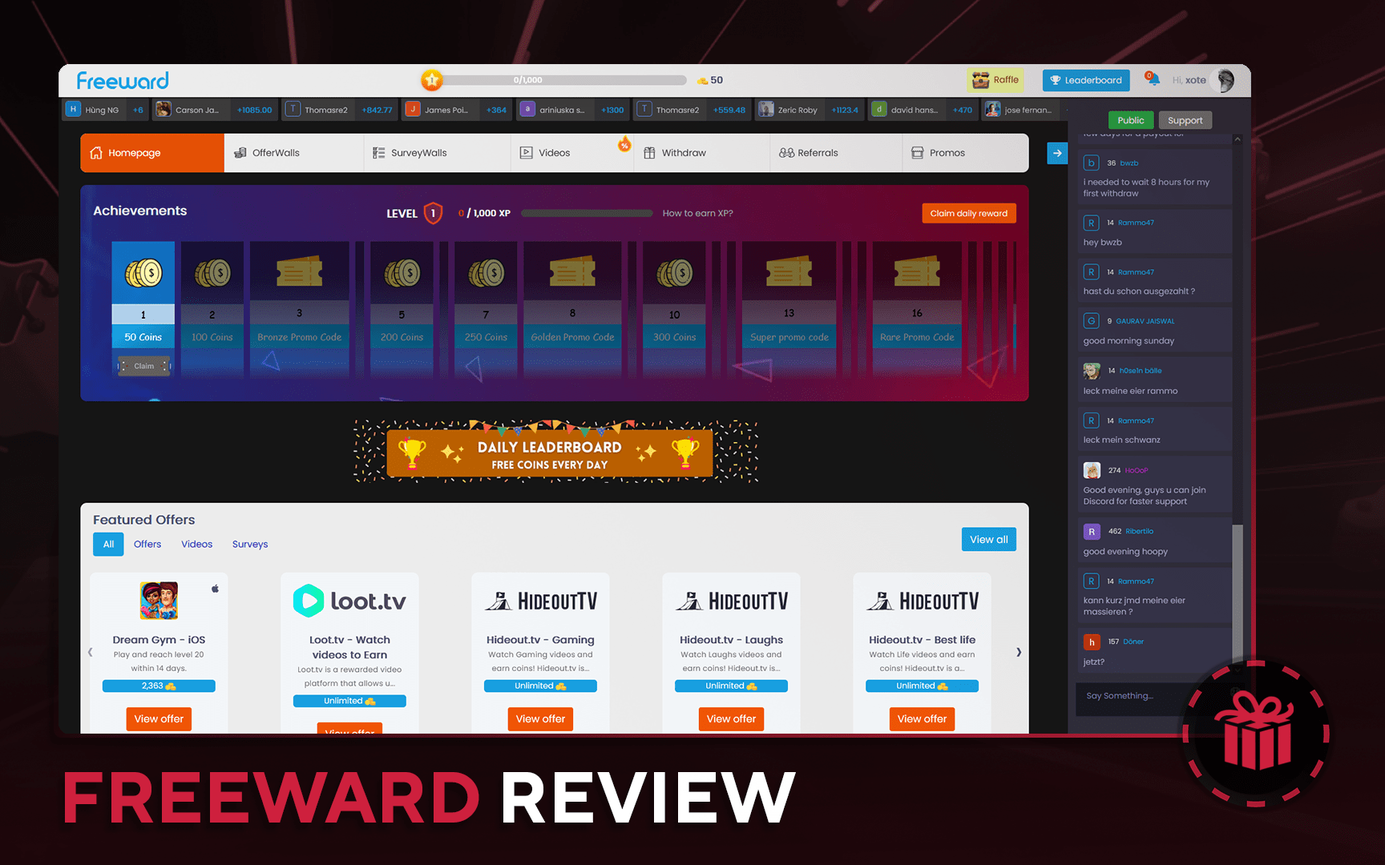
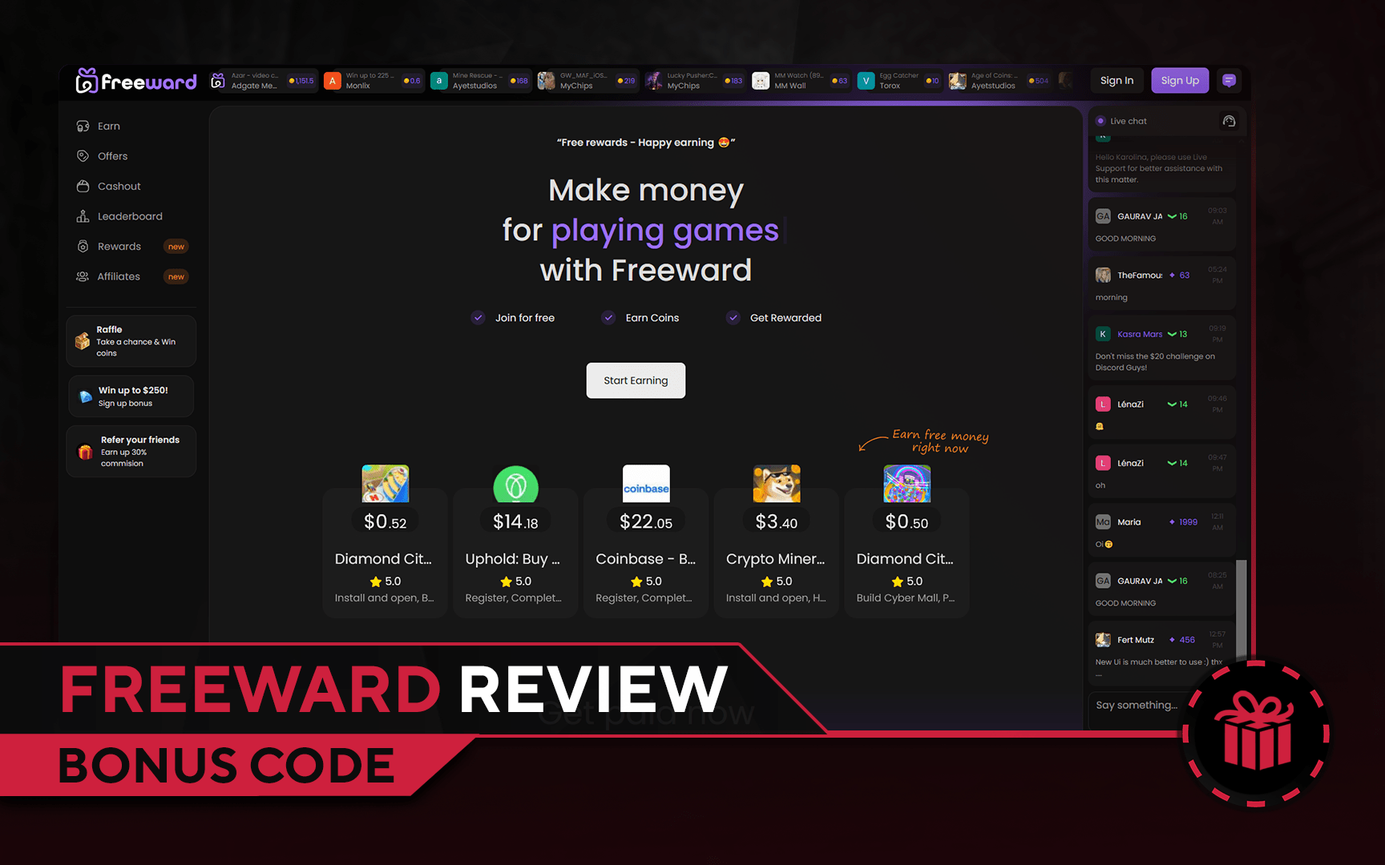
freeward upd

diff --git a/ru/reviews/freeward.html b/ru/reviews/freeward.html
@@ -103,7 +103,7 @@
     <div class="siteblock">
         <div class="box main">
             <div class="logobg">
-                <a href="https://freeward.net?ref=v2vod"><img src="/img/freeward-logo.png" alt="Freeward logo" draggable="false" loading="lazy"></a>
+                <a href="https://freeward.net/ref/v2vod"><img src="/img/freeward-logo.webp" alt="Freeward logo" draggable="false" loading="lazy"></a>
                 <div class="rating">
                     <div class="star_rating"><i class="bi bi-star-fill"></i></div>
                     <div class="star_rating"><i class="bi bi-star-fill"></i></div>
@@ -114,7 +114,7 @@
             </div>
             <div class="content">
                 <p>Freeward</p>
-                <a aria-label="Visit WebSite" class="copy_style" target="_blank" href='https://freeward.net?ref=v2vod'>Посетить Сайт</a>
+                <a aria-label="Visit WebSite" class="copy_style" target="_blank" href='https://freeward.net/ref/v2vod'>Посетить Сайт</a>
                 <div class="bonus-space" id="first"></div>
                 <div class="bonus_info"><span id="bonus">Получите <strong>0.10$</strong> Бесплатно</span></div>
                 <div class="bonus-space"></div>
@@ -148,7 +148,6 @@
                 <div class="criteria">
                     <p>Минусы</p>
                       <ul class="par">
-                        <li>Устаревший Дизайн</li>
                         <li>Иногда вывод может занимать много времени</li>
                     </ul>
                     <i class="bi bi-caret-down-fill"></i>
@@ -156,18 +155,18 @@
             </div>
             <div class="smallreview" id="Review_1">
                 <h2>Обзор на Freeward</h2>
-                <p>Freeward – это сайт GPT (Get-Paid-To), который предоставляет различные возможности для заработка наград за выполнение заданий, таких как опросы, просмотр видео и участие в ежедневных розыгрышах. В этой статье мы рассмотрим легитимность Freeward и рассмотрим особенности сайта, недостатки и общий пользовательский опыт.</p>
-                <p>Наше исследование показывает, что Freeward является легитимным сайтом, который платит пользователям за выполнение заданий и предлагает различные вознаграждения, включая наличные средства PayPal, Bitcoin, криптовалюты и подарочные карты. Сайт доступен по всему миру, а регистрация проста. Кроме того, период выплат относительно быстрый, менее двух часов по сравнению с другими сайтами GPT.</p>
-                <p>Несмотря на эти преимущества, отзывы свидетельствуют о некоторых недостатках у Freeward, таких как ограниченное количество возможностей для заработка и отсутствие прозрачности по поводу основателя. Тем не менее, уникальная система достижений на сайте поощряет пользователей выполнять больше заданий и зарабатывать дополнительные бесплатные монеты. На сайте также есть полезный блог и раздел FAQ, а пользователи могут обратиться за поддержкой через Discord или электронную почту для получения персонализированной помощи.</p>
-                <p>В целом, Freeward – это легитимный сайт GPT, который предоставляет различные возможности заработка и разнообразные варианты выплат. Хотя есть некоторые недостатки, отзывы свидетельствуют о том, что сайт стоит попробовать для тех, кто ищет дополнительный заработок онлайн. С простым процессом регистрации, быстрой выплатой и простым интерфейсом Freeward – это многообещающая платформа для тех, кто хочет зарабатывать награды за выполнение онлайн-заданий.</p>
+                <p>Freeward — это GPT (Get-Paid-To) платформа , которая предоставляет пользователям различные возможности для заработка, выполняя простые задания, такие как опросы, просмотр видео и участие в игровых заданиях. Платформа позволяет пользователям зарабатывать вознаграждения, которые можно вывести через PayPal, в криптовалюте или обменять на подарочные карты.</p>
+                <p>Одним из уникальных аспектов Freeward является система достижений, которая стимулирует пользователей выполнять больше заданий и продвигаться по уровням на сайте. По мере повышения уровня пользователи получают дополнительные бесплатные монеты, что мотивирует активное участие и повышает вовлеченность.</p>
+                <p>Сайт доступен по всему миру, и процесс регистрации на платформе очень прост и быстр. Интерфейс Freeward интуитивно понятен и удобен в использовании, что облегчает навигацию и выполнение заданий. Быстрая выплата заработанных средств является одним из ключевых преимуществ платформы, что делает её привлекательной для пользователей, ищущих дополнительные способы заработка онлайн.</p>
+                <p>В целом, Freeward представляет собой легитимный и надежный GPT-сайт, предлагающий разнообразные возможности для заработка и широкий выбор вариантов выплат. Простая регистрация, удобный интерфейс и система вознаграждений делают Freeward многообещающей платформой для тех, кто хочет заработать награды за выполнение онлайн-заданий.</p>
                 <div class="title-space"></div>
             </div>
                         <div class="instruction" id="Bonus_2">
                 <h3>Как получить Бонусы на сайте Freeward</h3>
                 <ol>
-                <li>Перейдите на <a target="_blank" href="https://freeward.net?ref=v2vod">Freeward</a> используя нашу ссылку</li>
+                <li>Перейдите на <a target="_blank" href="https://freeward.net/ref/v2vod">Freeward</a> используя нашу ссылку</li>
                 <li>Зарегистрируйтесь любым способом </li>
-                <li>Наслаждайтесь Бонусами !</li>
+                <li>Готово !</li>
                 </ol>
             </div>
             <div class="screentable" id="Site_3">
@@ -179,10 +178,11 @@
                     </div>
                 </div>
                 <div class="screens">
-                    <div class="slide bg1"><img draggable="false" loading="lazy" src="/img/screens/freeward_1.png" alt="Freeward ScreenShot 1"></div>
-                    <div class="slide bg2"><img draggable="false" loading="lazy" src="/img/screens/freeward_2.png" alt="Freeward ScreenShot 2"></div>
-                    <div class="slide bg3"><img draggable="false" loading="lazy" src="/img/screens/freeward_3.png" alt="Freeward ScreenShot 3"></div>
-                    <div class="slide bg4"><img draggable="false" loading="lazy" src="/img/screens/freeward_4.png" alt="Freeward ScreenShot 4"></div>
+                    <div class="slide bg1"><img draggable="false" loading="lazy" src="/img/screens/freeward_1.jpg" alt="Freeward Main Page ScreenShot"></div>
+                    <div class="slide bg2"><img draggable="false" loading="lazy" src="/img/screens/freeward_2.jpg" alt="Freeward Offerwalls list ScreenShot"></div>
+                    <div class="slide bg3"><img draggable="false" loading="lazy" src="/img/screens/freeward_3.jpg" alt="Freeward Level Up System ScreenShot"></div>
+                    <div class="slide bg4"><img draggable="false" loading="lazy" src="/img/screens/freeward_4.jpg" alt="Freeward Cashout list ScreenShot"></div>
+                    <div class="slide bg5"><img draggable="false" loading="lazy" src="/img/screens/freeward_5.jpg" alt="Freeward LeaderBoard ScreenShot"></div>
                 </div>
             </div>
             <div class="sitealternates">

diff --git a/tr/reviews/freeward.html b/tr/reviews/freeward.html
@@ -100,7 +100,7 @@
     <div class="siteblock">
         <div class="box main">
             <div class="logobg">
-                <a href="https://freeward.net?ref=v2vod"><img src="/img/freeward-logo.png" alt="Freeward logo" draggable="false" loading="lazy"></a>
+                <a href="https://freeward.net/ref/v2vod"><img src="/img/freeward-logo.webp" alt="Freeward logo" draggable="false" loading="lazy"></a>
                 <div class="rating">
                     <div class="star_rating"><i class="bi bi-star-fill"></i></div>
                     <div class="star_rating"><i class="bi bi-star-fill"></i></div>
@@ -111,7 +111,7 @@
             </div>
             <div class="content">
                 <p>Freeward</p>
-                <a aria-label="Visit WebSite" class="copy_style" target="_blank" href='https://freeward.net?ref=v2vod'>Visit WebSite</a>
+                <a aria-label="Visit WebSite" class="copy_style" target="_blank" href='https://freeward.net/ref/v2vod'>Visit WebSite</a>
                 <div class="bonus-space" id="first"></div>
                 <div class="bonus_info"><span id="bonus">Ücretsiz olarak <strong>0.10$</strong> alın</span></div>
                 <div class="bonus-space"></div>
@@ -145,7 +145,6 @@
                 <div class="criteria">
                     <p>Eksileri</p>
                       <ul class="par">
-                        <li>Güncellenmemiş Tasarım</li>
                         <li>Bazen çekim işlemi çok uzun sürebilir</li>
                     </ul>
                     <i class="bi bi-caret-down-fill"></i>
@@ -153,16 +152,16 @@
             </div>
             <div class="smallreview" id="Review_1">
                 <h2>Freeward İncelemesi</h2>
-                <p>Freeward, kullanıcıların anketler yaparak, videolar izleyerek ve günlük çekilişlere katılarak ödüller kazanabileceği bir GPT (Get-Paid-To) sitesidir. Bu makalede, Freeward'ın meşruiyetini tartışacak ve siteyi özellikleri, dezavantajları ve genel kullanıcı deneyimiyle inceleyeceğiz.</p>
-                <p>Araştırmalarımız, Freeward'ın kullanıcıları görevleri tamamlamak için ödeme yapan ve PayPal nakit, Bitcoin, kripto para birimleri ve hediye kartları dahil olmak üzere çeşitli ödüller sunan meşru bir web sitesi olduğunu göstermektedir. Site dünya çapında kullanılabilir ve kaydolmak oldukça kolaydır. Ayrıca, ödeme süresi diğer GPT sitelerine kıyasla oldukça hızlıdır, iki saatin altında.</p>
-                <p>Bu avantajlara rağmen, incelemeler Freeward'ın sınırlı kazanç fırsatları ve kurucu hakkında şeffaflık eksikliği gibi bazı dezavantajlara sahip olduğunu göstermektedir. Bununla birlikte, siteyi öne çıkaran başarı sistemi, kullanıcıların daha fazla görevi tamamlamalarını teşvik eder ve ek ücretsiz paralar kazanmalarını sağlar. Ayrıca, site yardımcı blog ve SSS bölümüne sahiptir ve kullanıcılar Discord veya e-posta yoluyla destek ekibiyle kişisel yardım alabilirler.</p>
-                <p>Genel olarak, Freeward çeşitli kazanç fırsatları ve çeşitli ödeme seçenekleri sunan meşru bir GPT sitesidir. Bazı dezavantajları olmasına rağmen, incelemeler siteyi çevrimiçi olarak ekstra para kazanmak isteyenler için denemeye değer olduğunu göstermektedir. Basit kayıt süreci, hızlı ödeme ve kullanımı kolay arayüzü ile Freeward, çevrimiçi görevleri tamamlayarak ödüller kazanmak isteyen bireyler için umut verici bir platformdur.</p>
+                <p>Freeward, kullanıcılara anketler doldurma, video izleme ve oyun görevlerine katılma gibi basit görevleri tamamlayarak çeşitli kazanç fırsatları sunan bir GPT (Get-Paid-To) platformudur. Platform, kullanıcıların PayPal aracılığıyla, kripto para biriminde veya hediye kartlarına dönüştürerek çekebilecekleri ödüller kazanmalarını sağlar.</p>
+                <p>Freeward'ın benzersiz yönlerinden biri, kullanıcıları daha fazla görev tamamlamaya ve site üzerinde seviye atlamaya teşvik eden başarı sistemi olmasıdır. Kullanıcılar seviye atladıkça ek ücretsiz jetonlar alırlar, bu da aktif katılımı teşvik eder ve bağlılığı artırır.</p>
+                <p>Site dünya çapında kullanılabilir ve platforma kayıt süreci çok basit ve hızlıdır. Freeward arayüzü sezgisel ve kullanımı kolaydır, bu da gezinmeyi ve görevleri tamamlamayı kolaylaştırır. Kazanılan fonların hızlı ödenmesi, kullanıcılar için çevrimiçi ek kazanç yolları arayanlar için cazip hale getiren platformun temel avantajlarından biridir.</p>
+                <p>Genel olarak, Freeward çeşitli kazanç fırsatları ve geniş bir ödeme seçeneği sunan, meşru ve güvenilir bir GPT sitesidir. Basit kayıt, kullanıcı dostu arayüz ve ödül sistemi, Freeward'ı çevrimiçi görevleri tamamlayarak ödüller kazanmak isteyenler için umut verici bir platform yapmaktadır.</p>
                 <div class="title-space"></div>
             </div>
                         <div class="instruction" id="Bonus_2">
                 <h3>Freeward Bonuslarını Nasıl Alabilirsiniz</h3>
                 <ol>
-                <li>Sağlanan bağlantıyı kullanarak <a target="_blank" href="https://freeward.net?ref=v2vod">Freeward</a>'e gidin</li>
+                <li>Sağlanan bağlantıyı kullanarak <a target="_blank" href="https://freeward.net/ref/v2vod">Freeward</a>'e gidin</li>
                 <li>Herhangi bir yöntemle kayıt olun</li>
                 <li>Keyfini Çıkar!</li>
                 </ol>
@@ -176,10 +175,11 @@
                     </div>
                 </div>
                 <div class="screens">
-                    <div class="slide bg1"><img draggable="false" loading="lazy" src="/img/screens/freeward_1.png" alt="Freeward ScreenShot 1"></div>
-                    <div class="slide bg2"><img draggable="false" loading="lazy" src="/img/screens/freeward_2.png" alt="Freeward ScreenShot 2"></div>
-                    <div class="slide bg3"><img draggable="false" loading="lazy" src="/img/screens/freeward_3.png" alt="Freeward ScreenShot 3"></div>
-                    <div class="slide bg4"><img draggable="false" loading="lazy" src="/img/screens/freeward_4.png" alt="Freeward ScreenShot 4"></div>
+                    <div class="slide bg1"><img draggable="false" loading="lazy" src="/img/screens/freeward_1.jpg" alt="Freeward Main Page ScreenShot"></div>
+                    <div class="slide bg2"><img draggable="false" loading="lazy" src="/img/screens/freeward_2.jpg" alt="Freeward Offerwalls list ScreenShot"></div>
+                    <div class="slide bg3"><img draggable="false" loading="lazy" src="/img/screens/freeward_3.jpg" alt="Freeward Level Up System ScreenShot"></div>
+                    <div class="slide bg4"><img draggable="false" loading="lazy" src="/img/screens/freeward_4.jpg" alt="Freeward Cashout list ScreenShot"></div>
+                    <div class="slide bg5"><img draggable="false" loading="lazy" src="/img/screens/freeward_5.jpg" alt="Freeward LeaderBoard ScreenShot"></div>
                 </div>
             </div>
             <div class="sitealternates">

diff --git a/reviews/freeward.html b/reviews/freeward.html
@@ -100,7 +100,7 @@
     <div class="siteblock">
         <div class="box main">
             <div class="logobg">
-                <a href="https://freeward.net?ref=v2vod"><img src="/img/freeward-logo.png" alt="Freeward logo" draggable="false" loading="lazy"></a>
+                <a href="https://freeward.net/ref/v2vod"><img src="/img/freeward-logo.webp" alt="Freeward logo" draggable="false" loading="lazy"></a>
                 <div class="rating">
                     <div class="star_rating"><i class="bi bi-star-fill"></i></div>
                     <div class="star_rating"><i class="bi bi-star-fill"></i></div>
@@ -111,7 +111,7 @@
             </div>
             <div class="content">
                 <p>Freeward</p>
-                <a aria-label="Visit WebSite" class="copy_style" target="_blank" href='https://freeward.net?ref=v2vod'>Visit WebSite</a>
+                <a aria-label="Visit WebSite" class="copy_style" target="_blank" href='https://freeward.net/ref/v2vod'>Visit WebSite</a>
                 <div class="bonus-space" id="first"></div>
                 <div class="bonus_info"><span id="bonus">Receive Free <strong>0.10$</strong></span></div>
                 <div class="bonus-space"></div>
@@ -145,7 +145,6 @@
                 <div class="criteria">
                     <p>Cons</p>
                       <ul class="par">
-                        <li>Outdated Design</li>
                         <li>Sometimes withdrawal can be too long</li>
                     </ul>
                     <i class="bi bi-caret-down-fill"></i>
@@ -153,16 +152,16 @@
             </div>
             <div class="smallreview" id="Review_1">
                 <h2>Review of Freeward</h2>
-                <p>Freeward is a GPT (Get-Paid-To) site that provides various opportunities for users to earn rewards through tasks like surveys, watching videos, and participating in daily raffles. In this article, we'll discuss the legitimacy of Freeward and examine the site's features, drawbacks, and overall user experience.</p>
-                <p>Our research indicates that Freeward is a legitimate website that pays users for completing tasks and offers diverse rewards, including PayPal cash, Bitcoin, cryptocurrencies, and gift cards. The site is available worldwide, and signing up is straightforward. Additionally, the payment period is relatively fast, under two hours compared to other GPT sites.</p>
-                <p>Despite these advantages, reviews suggest that Freeward has some drawbacks, such as a limited number of earning opportunities and a lack of transparency about the founder. Nevertheless, the site's unique achievement system encourages users to complete more tasks and earn additional free coins. The site also has a helpful blog and FAQ section, and users can contact support through Discord or email for personalized assistance.</p>
-                <p>Overall, Freeward is a legitimate GPT site that provides various earning opportunities and diverse payout options. While there are some drawbacks, reviews suggest that the site is worth trying for those looking to earn extra money online. With its straightforward sign-up process, fast payout, and easy-to-use interface, Freeward is a promising platform for individuals looking to earn rewards through completing online tasks.</p>
+                <p>Freeward is a GPT (Get-Paid-To) platform that offers users various earning opportunities by completing simple tasks such as surveys, watching videos, and participating in game challenges. The platform allows users to earn rewards that can be withdrawn via PayPal, in cryptocurrency, or exchanged for gift cards.</p>
+                <p>One of the unique aspects of Freeward is the achievement system, which encourages users to complete more tasks and level up on the site. As users progress, they receive additional free coins, which motivates active participation and increases engagement.</p>
+                <p>The site is available worldwide, and the registration process on the platform is very simple and quick. The Freeward interface is intuitive and user-friendly, making it easy to navigate and complete tasks. Quick payout of earned funds is one of the platform's key advantages, making it attractive for users looking for additional ways to earn money online.</p>
+                <p>Overall, Freeward is a legitimate and reliable GPT site, offering a variety of earning opportunities and a wide range of payout options. Simple registration, a user-friendly interface, and a reward system make Freeward a promising platform for those looking to earn rewards for completing online tasks.</p>
                 <div class="title-space"></div>
             </div>
                         <div class="instruction" id="Bonus_2">
                 <h3>How to Claim Freeward Bonuses</h3>
                 <ol>
-                <li>Go to <a target="_blank" href="https://freeward.net?ref=v2vod">Freeward</a> using our provided link</li>
+                <li>Go to <a target="_blank" href="https://freeward.net/ref/v2vod">Freeward</a> using our provided link</li>
                 <li>Register using any method</li>
                 <li>Enjoy free <strong>0.10$</strong>!</li>
                 </ol>
@@ -176,10 +175,11 @@
                     </div>
                 </div>
                 <div class="screens">
-                    <div class="slide bg1"><img draggable="false" loading="lazy" src="/img/screens/freeward_1.png" alt="Freeward ScreenShot 1"></div>
-                    <div class="slide bg2"><img draggable="false" loading="lazy" src="/img/screens/freeward_2.png" alt="Freeward ScreenShot 2"></div>
-                    <div class="slide bg3"><img draggable="false" loading="lazy" src="/img/screens/freeward_3.png" alt="Freeward ScreenShot 3"></div>
-                    <div class="slide bg4"><img draggable="false" loading="lazy" src="/img/screens/freeward_4.png" alt="Freeward ScreenShot 4"></div>
+                    <div class="slide bg1"><img draggable="false" loading="lazy" src="/img/screens/freeward_1.jpg" alt="Freeward Main Page ScreenShot"></div>
+                    <div class="slide bg2"><img draggable="false" loading="lazy" src="/img/screens/freeward_2.jpg" alt="Freeward Offerwalls list ScreenShot"></div>
+                    <div class="slide bg3"><img draggable="false" loading="lazy" src="/img/screens/freeward_3.jpg" alt="Freeward Level Up System ScreenShot"></div>
+                    <div class="slide bg4"><img draggable="false" loading="lazy" src="/img/screens/freeward_4.jpg" alt="Freeward Cashout list ScreenShot"></div>
+                    <div class="slide bg5"><img draggable="false" loading="lazy" src="/img/screens/freeward_5.jpg" alt="Freeward LeaderBoard ScreenShot"></div>
                 </div>
             </div>
             <div class="sitealternates">

diff --git a/language.js b/language.js
@@ -552,11 +552,11 @@ function translateURLsIfNeeded() {
         "pt": "RustMoment é um site de apostas para entusiastas de skins do Rust com seis jogos, bônus e pagamentos em moeda padrão e criptomoeda.",
         "hi": "RustMoment एक रस्ट स्किन प्रशंसकों के लिए एक जुआ साइट है जिसमें छह खेल, बोनस और एक रेकबैक सिस्टम होता है। इसमें मानक और क्रिप्टोकरेंसी भुगतान स्वीकार किए जाते हैं।"
       },
-      "Freeward is a GPT site that provides various opportunities for users to earn rewards through tasks like surveys and watching videos.": {
-        "es": "Freeward es un sitio GPT que ofrece diversas oportunidades para que los usuarios ganen recompensas mediante tareas como encuestas y ver videos.",
-        "tr": "Freeward, kullanıcıların anketler yaparak ve videolar izleyerek ödüller kazanabilecekleri çeşitli fırsatlar sunan bir GPT sitesidir.",
-        "pt": "Freeward é um site que oferece oportunidades para os usuários ganharem recompensas por meio de tarefas como pesquisas e vídeos.",
-        "hi": "Freeward एक GPT साइट है जो सर्वेक्षण और वीडियो देखकर जैसे कार्यों के माध्यम से उपयोगकर्ताओं को पुरस्कार कमाने के विभिन्न अवसर प्रदान करती है।"
+      "Freeward is a platform for earning through surveys, watching videos, and games, featuring an achievements system and a wide variety of withdrawal methods.": {
+        "es": "Freeward es una plataforma para ganar a través de encuestas, ver videos y juegos, con un sistema de logros y una amplia variedad de métodos de retiro.",
+        "tr": "Freeward, anketler, video izleme ve oyunlar yoluyla kazanç sağlama platformudur; başarı sistemi ve geniş bir çekilme yöntemleri yelpazesi sunar.",
+        "pt": "Freeward é uma plataforma para ganhar dinheiro respondendo pesquisas, assistindo vídeos e jogando, com conquistas e diversos métodos de saque.",
+        "hi": "Freeward एक प्लेटफ़ॉर्म है जहाँ सर्वेक्षणों, वीडियो देखने और खेलों के माध्यम से कमाई की जा सकती है, जिसमें एक उपलब्धि प्रणाली और निकासी के कई विकल्प हैं।"
       },
       "Roobet is a popular crypto-casino. It offers a variety of games, a VIP program, sport and esport betting, and quality customer support.": {
         "es": "Roobet es un popular cripto-casino. Ofrece una variedad de juegos, un programa VIP, apuestas y soporte al cliente de calidad.",

diff --git a/ru/earning.html b/ru/earning.html
@@ -385,14 +385,14 @@
         </div>
         <div class="box" id="Freeward">
             <div class="logobg">
-                <a href="/reviews/freeward"><img src="/img/freeward-logo.png" loading="lazy" draggable="false" alt="Freeward logo"></a>
+                <a href="/reviews/freeward"><img src="/img/freeward-logo.webp" loading="lazy" draggable="false" alt="Freeward logo"></a>
                 <div class="best">0.10$ Бесплатно</div>
             </div>
             <div class="content">
                 <p>Freeward</p>
-                <p>Freeward - это GPT сайт, который предоставляет пользователям различные возможности заработка наград за выполнение заданий.</p>
+                <p>Freeward - платформа для заработка через опросы, просмотр видео и игры, с системой достижений и широким выбором способов вывода.</p>
                 <p>Выводите Крипту или Гифткарты!</p>
-                <a aria-label="Visit WebSite" class="copy_style" target="_blank" href='https://freeward.net?ref=v2vod'>Посетить Сайт</a>
+                <a aria-label="Visit WebSite" class="copy_style" target="_blank" href='https://freeward.net/ref/v2vod'>Посетить Сайт</a>
             </div>
         </div>
         <div class="box" id="Roobet">

diff --git a/earning.html b/earning.html
@@ -376,14 +376,14 @@
         </div>
         <div class="box" id="Freeward">
             <div class="logobg">
-                <a href="/reviews/freeward"><img src="/img/freeward-logo.png" loading="lazy" draggable="false" alt="Freeward logo"></a>
+                <a href="/reviews/freeward"><img src="/img/freeward-logo.webp" loading="lazy" draggable="false" alt="Freeward logo"></a>
                 <div class="best">Free 0.10$</div>
             </div>
             <div class="content">
                 <p>Freeward</p>
-                <p>Freeward is a GPT site that provides various opportunities for users to earn rewards through tasks like surveys and watching videos.</p>
+                <p>Freeward is a platform for earning through surveys, watching videos, and games, featuring an achievements system and a wide variety of withdrawal methods.</p>
                 <p>Withdraw Crypto and Gift Cards!</p>
-                <a aria-label="Visit WebSite" class="copy_style" target="_blank" href='https://freeward.net?ref=v2vod'>Visit WebSite</a>
+                <a aria-label="Visit WebSite" class="copy_style" target="_blank" href='https://freeward.net/ref/v2vod'>Visit WebSite</a>
             </div>
         </div>
         <div class="box" id="Roobet">

diff --git a/earning/offerwalls.html b/earning/offerwalls.html
@@ -349,14 +349,14 @@
         </div>
         <div class="box" id="Freeward">
             <div class="logobg">
-                <a href="/reviews/freeward"><img src="/img/freeward-logo.png" loading="lazy" draggable="false" alt="Freeward logo"></a>
+                <a href="/reviews/freeward"><img src="/img/freeward-logo.webp" loading="lazy" draggable="false" alt="Freeward logo"></a>
                 <div class="best">Free 0.10$</div>
             </div>
             <div class="content">
                 <p>Freeward</p>
-                <p>Freeward is a GPT site that provides various opportunities for users to earn rewards through tasks like surveys and watching videos.</p>
+                <p>Freeward is a platform for earning through surveys, watching videos, and games, featuring an achievements system and a wide variety of withdrawal methods.</p>
                 <p>Withdraw Crypto and Gift Cards!</p>
-                <a aria-label="Visit WebSite" class="copy_style" target="_blank" href='https://freeward.net?ref=v2vod'>Visit WebSite</a>
+                <a aria-label="Visit WebSite" class="copy_style" target="_blank" href='https://freeward.net/ref/v2vod'>Visit WebSite</a>
             </div>
         </div>
         <div class="box" id="Roobet">

diff --git a/ru/earning/offerwalls.html b/ru/earning/offerwalls.html
@@ -373,14 +373,14 @@
         </div>
         <div class="box" id="Freeward">
             <div class="logobg">
-                <a href="/reviews/freeward"><img src="/img/freeward-logo.png" loading="lazy" draggable="false" alt="Freeward logo"></a>
+                <a href="/reviews/freeward"><img src="/img/freeward-logo.webp" loading="lazy" draggable="false" alt="Freeward logo"></a>
                 <div class="best">0.10$ Бесплатно</div>
             </div>
             <div class="content">
                 <p>Freeward</p>
                 <p>Freeward - это GPT сайт, который предоставляет пользователям различные возможности заработка наград за выполнение заданий.</p>
                 <p>Выводите Крипту или Гифткарты!</p>
-                <a aria-label="Visit WebSite" class="copy_style" target="_blank" href='https://freeward.net?ref=v2vod'>Посетить Сайт</a>
+                <a aria-label="Visit WebSite" class="copy_style" target="_blank" href='https://freeward.net/ref/v2vod'>Посетить Сайт</a>
             </div>
         </div>
         <div class="box" id="Roobet">

diff --git a/ru/reviews/ruststake.html b/ru/reviews/ruststake.html
@@ -170,7 +170,7 @@
                 <li>Зарегистрируйтесь любым способом </li>
                 <li>Нажмите на <strong>Free Case</strong> в меню слева</li>
                 <li>Введите Код:  <code id="site-code">csgobroker</code><button class="copy site-promo-copy" aria-label="Copy Code" onclick="copyToClipboard('#site-code')"><i class="bi bi-copy"></i></button></li>
-                <li>Наслаждайтесь Бонусами !</li>
+                <li>Готово !</li>
                 </ol>
             </div>
             <div class="screentable" id="Site_3">
